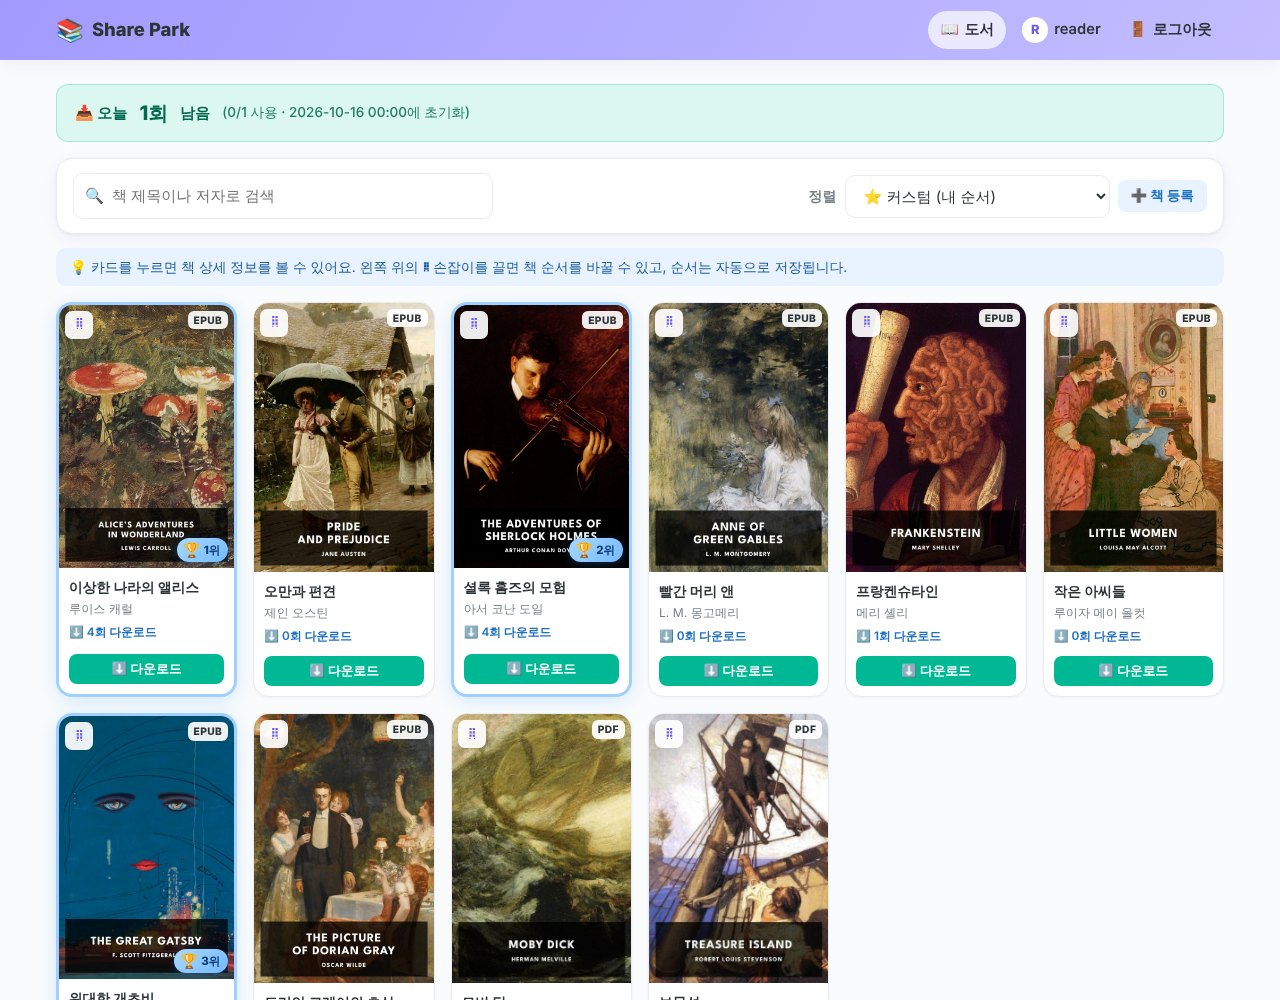
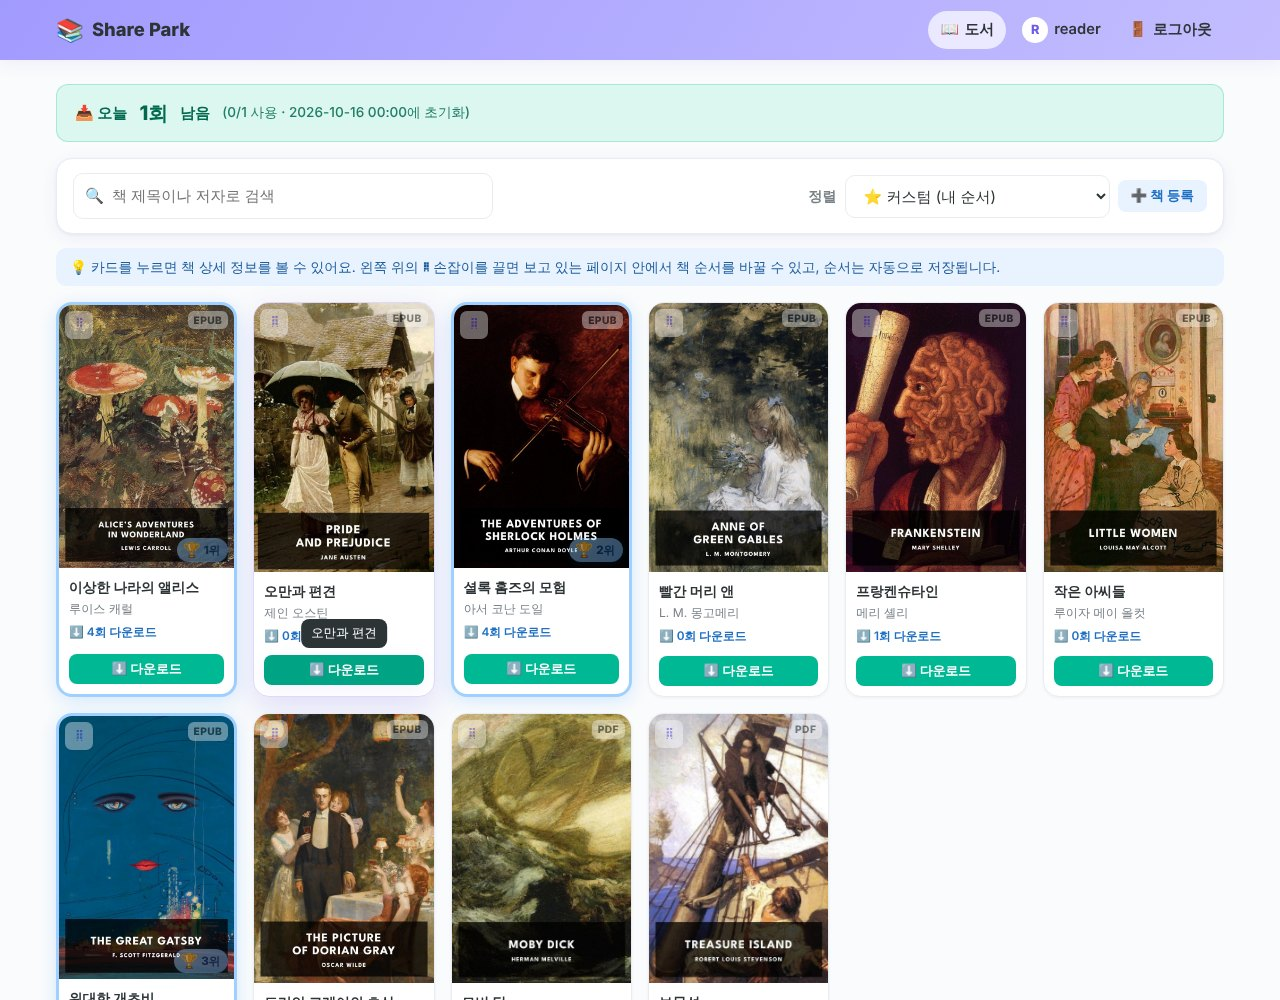
feat: v1.3.0 도서 목록 12권 페이지네이션, 표지 위 표시 반투명
- 도서 목록을 한 페이지에 12권씩 표시, 페이지 번호와 '전체 N권 중 a–b번째' 안내
- 검색·정렬 변경 시 1페이지로, 드래그 순서 변경은 현재 페이지 범위만 전체 순서에 반영
- 드래그 손잡이·형식 배지·인기 배지를 반투명(opacity .55)으로, 마우스를 올리거나 포커스하면 선명하게
- README·README.en·CHANGELOG·SECURITY·FAQ·스크린샷 갱신

Claude-Session: https://claude.ai/code/session_015QSCjmaEauR1t1XX8w4kW7

diff --git a/js/dashboard.js b/js/dashboard.js
@@ -1,6 +1,6 @@
 /**
  * Share Park - 대시보드 (도서 목록)
- * 검색, 정렬, 커스텀 순서(드래그 앤 드롭), 다운로드 제한 배너
+ * 검색, 정렬, 커스텀 순서(드래그 앤 드롭), 페이지네이션(12권), 다운로드 제한 배너
  */
 (function () {
   'use strict';
@@ -8,6 +8,7 @@
   const SP = window.SP;
   const esc = (v) => SP.escapeHtml(v);
   const SORT_KEY = 'sharepark.sort';
+  const PAGE_SIZE = 12;
 
   const grid = document.getElementById('book-grid');
   const searchInput = document.getElementById('book-search');
@@ -18,6 +19,9 @@
   const dragHint = document.getElementById('drag-hint');
   const emptyState = document.getElementById('empty-state');
   const noResults = document.getElementById('no-results');
+  const pager = document.getElementById('book-pager');
+  const pagination = document.getElementById('book-pagination');
+  const pageInfo = document.getElementById('book-page-info');
 
   const state = {
     books: [],          // 서버 순서(사용자 커스텀 순서 적용)
@@ -26,6 +30,7 @@
     sort: SP.storage.get(SORT_KEY, 'custom'),
     hasCustom: false,
     limit: null,
+    page: 1,
   };
   if (!['custom', 'popular', 'title', 'author', 'newest', 'oldest'].includes(state.sort)) state.sort = 'custom';
   sortSelect.value = state.sort;
@@ -48,11 +53,19 @@
 
   function render() {
     const canDownload = !state.limit || state.limit.can_download;
-    const list = sortedBooks();
+    const all = sortedBooks();
+    const pages = Math.max(1, Math.ceil(all.length / PAGE_SIZE));
+    state.page = Math.min(Math.max(1, state.page), pages);
+    const start = (state.page - 1) * PAGE_SIZE;
+    const list = all.slice(start, start + PAGE_SIZE);
     const draggable = canDrag();
 
+    pager.hidden = all.length === 0;
+    pageInfo.textContent = all.length ? `전체 ${all.length}권 중 ${start + 1}–${start + list.length}번째` : '';
+    pagination.innerHTML = SP.paginationHtml(state.page, pages);
+
     emptyState.hidden = state.total !== 0;
-    noResults.hidden = !(state.total > 0 && list.length === 0);
+    noResults.hidden = !(state.total > 0 && all.length === 0);
     dragHint.hidden = !(draggable && list.length > 1);
     customBadge.hidden = !(state.hasCustom && state.sort === 'custom');
     resetOrderBtn.hidden = !(state.hasCustom && state.sort === 'custom');
@@ -95,11 +108,11 @@
   }
 
   async function saveOrder(ids) {
-    // 화면 순서를 상태에 반영
+    // 현재 페이지의 새 순서를 전체 목록의 같은 위치에 반영 (다른 페이지 순서는 유지)
     const byId = new Map(state.books.map((b) => [String(b.id), b]));
-    state.books = ids.map((id) => byId.get(id)).filter(Boolean);
+    state.books.splice((state.page - 1) * PAGE_SIZE, ids.length, ...ids.map((id) => byId.get(id)).filter(Boolean));
     try {
-      const res = await SP.api('api/save-custom-order.php', { data: { order: ids.map(Number) } });
+      const res = await SP.api('api/save-custom-order.php', { data: { order: state.books.map((b) => b.id) } });
       state.hasCustom = res.has_custom_order;
       customBadge.hidden = false;
       resetOrderBtn.hidden = false;
@@ -132,14 +145,24 @@
     }
   });
 
+  pagination.addEventListener('click', (e) => {
+    const b = e.target.closest('button[data-page]');
+    if (!b || b.disabled) return;
+    state.page = Number(b.dataset.page);
+    render();
+    document.querySelector('.toolbar').scrollIntoView({ block: 'start', behavior: 'smooth' });
+  });
+
   searchInput.addEventListener('input', SP.debounce(() => {
     state.query = searchInput.value.trim();
+    state.page = 1;
     load();
   }, 250));
 
   sortSelect.addEventListener('change', () => {
     state.sort = sortSelect.value;
     SP.storage.set(SORT_KEY, state.sort);
+    state.page = 1;
     render();
     if (state.sort === 'custom' && state.query) {
       SP.toast('검색 중에는 순서를 바꿀 수 없어요. 검색어를 지우면 드래그할 수 있습니다.', 'info');

diff --git a/css/style.css b/css/style.css
@@ -269,7 +269,7 @@ input[type="file"].input { padding: 8px; }
 .book-cover { position: relative; aspect-ratio: 2 / 3; background: var(--primary-soft); overflow: hidden; }
 .book-cover img { width: 100%; height: 100%; object-fit: cover; transition: transform .3s; }
 .book-card:hover .book-cover img { transform: scale(1.03); }
-.format-badge { position: absolute; right: 6px; top: 6px; background: rgba(255, 255, 255, .92); color: var(--text); font-size: .64rem; font-weight: 800; padding: 1px 6px; border-radius: 6px; letter-spacing: .04em; }
+.format-badge { position: absolute; right: 6px; top: 6px; background: rgba(255, 255, 255, .7); color: var(--text); font-size: .64rem; font-weight: 800; padding: 1px 6px; border-radius: 6px; letter-spacing: .04em; }
 .book-info { padding: 10px 10px 10px; display: flex; flex-direction: column; gap: 2px; flex: 1; }
 .book-title { font-size: .86rem; font-weight: 700; margin: 0; line-height: 1.4; display: -webkit-box; -webkit-line-clamp: 2; -webkit-box-orient: vertical; overflow: hidden; word-break: keep-all; overflow-wrap: anywhere; }
 .book-author { font-size: .76rem; color: var(--muted); margin: 0; white-space: nowrap; overflow: hidden; text-overflow: ellipsis; }
@@ -285,8 +285,8 @@ input[type="file"].input { padding: 8px; }
   position: absolute; right: 6px; bottom: 6px;
   display: inline-flex; align-items: center; gap: 3px;
   padding: 3px 8px 3px 6px; border-radius: 999px;
-  background: linear-gradient(135deg, #a8d8ff, #74b9ff); color: #0b3d73;
-  font-size: .72rem; font-weight: 800; box-shadow: 0 2px 8px rgba(31, 111, 196, .35);
+  background: linear-gradient(135deg, rgba(168, 216, 255, .75), rgba(116, 185, 255, .75)); color: #0b3d73;
+  font-size: .72rem; font-weight: 800; box-shadow: 0 2px 8px rgba(31, 111, 196, .2);
 }
 .popular-badge span { font-size: .9rem; line-height: 1; }
 
@@ -312,11 +312,21 @@ input[type="file"].input { padding: 8px; }
 .drag-handle {
   position: absolute; left: 6px; top: 6px; z-index: 2;
   width: 28px; height: 28px; border-radius: 7px; border: none;
-  background: rgba(255, 255, 255, .92); color: var(--primary-strong);
+  background: rgba(255, 255, 255, .7); color: var(--primary-strong);
   font-size: 1.1rem; line-height: 1; cursor: grab; touch-action: none;
   box-shadow: var(--shadow-sm); display: flex; align-items: center; justify-content: center;
 }
 .drag-handle:active { cursor: grabbing; }
+
+/* 표지 위 표시(손잡이 · 형식 · 인기 배지)는 반투명으로 두어 표지 그림을 가리지 않음.
+   해당 표시에 마우스를 올리거나 포커스하면 또렷하게 보임 */
+.book-card .drag-handle, .book-cover .format-badge, .book-cover .popular-badge {
+  opacity: .55; transition: opacity .2s, background .2s;
+}
+.book-card .drag-handle:hover, .book-card .drag-handle:focus-visible,
+.book-cover .format-badge:hover, .book-cover .popular-badge:hover { opacity: 1; }
+.book-card.sortable-dragging .drag-handle { opacity: 1; }
+.book-pager { margin-top: 20px; }
 .sortable-dragging {
   box-shadow: 0 16px 40px rgba(108, 92, 231, .35) !important;
   border-color: var(--primary) !important;

diff --git a/js/admin-guide.js b/js/admin-guide.js
@@ -140,7 +140,7 @@
     ["'다시 보지 않기'는 어떻게 동작하나요?", '사용자가 동의할 때 이 옵션을 선택하면 설정한 기간(기본 7일) 동안 동의서를 생략합니다. 생략된 경우에도 서버가 기간을 다시 확인하고 동의 기록을 "다시 보지 않기" 방식으로 남깁니다.'],
     ['사용자가 비밀번호를 잊어버렸어요.', '계정 탭의 사용자 목록에서 🔑 버튼을 눌러 새 비밀번호를 지정한 뒤 사용자에게 알려주세요. 사용자는 마이페이지에서 다시 바꿀 수 있습니다.'],
     ['계정을 삭제하면 기록도 사라지나요?', '아니요. 다운로드 기록과 동의 기록은 법적 분쟁에 대비해 보관됩니다. 삭제되는 것은 계정 정보와 개인 정렬 순서, \'다시 보지 않기\' 설정입니다.'],
-    ['사용자 대시보드의 책 순서는 어떻게 정해지나요?', '도서 탭의 표 순서가 기본 순서입니다. 사용자가 대시보드에서 드래그로 자신만의 순서를 저장하면 그 사용자에게는 개인 순서가 우선 적용됩니다.'],
+    ['사용자 대시보드의 책 순서는 어떻게 정해지나요?', '도서 탭의 표 순서가 기본 순서이며, 도서 목록은 한 페이지에 12권씩 나뉘어 표시됩니다. 사용자가 대시보드에서 드래그로 자신만의 순서를 저장하면 그 사용자에게는 개인 순서가 우선 적용됩니다.'],
     ['책 파일과 표지는 어디에 저장되나요?', 'config.php 의 기본 경로 또는 설정 탭에서 지정한 경로에 저장됩니다. 현재 경로는 설정 탭의 "파일 저장 경로" 카드에서 확인할 수 있습니다. 파일은 로그인과 동의를 거쳐야만 PHP를 통해 전송됩니다.'],
     ['데이터는 어디에 저장되나요? 백업은 어떻게 하나요?', '모든 정보는 data 폴더의 JSON 파일(users, books, settings, downloads, user-custom-orders, download-agreements)에 저장됩니다. data 폴더와 책/표지 폴더를 함께 복사하면 백업이 됩니다.'],
     ['회원도 책을 등록할 수 있나요?', '네. 설정 탭의 "일반 회원의 책 등록 허용"이 켜져 있으면(기본값) 회원이 마이페이지 → 📚 내 책 탭에서 책을 등록할 수 있습니다. 회원은 자신이 올린 책만 수정·삭제할 수 있고, 관리자는 도서 탭에서 모든 책을 관리합니다. 끄면 관리자만 등록할 수 있습니다.'],

diff --git a/dashboard.php b/dashboard.php
@@ -34,9 +34,14 @@ render_header($user, 'dashboard');
     </div>
   </section>
 
-  <p id="drag-hint" class="hint" hidden>💡 카드를 누르면 책 상세 정보를 볼 수 있어요. 왼쪽 위의 <strong>⠿</strong> 손잡이를 끌면 책 순서를 바꿀 수 있고, 순서는 자동으로 저장됩니다.</p>
+  <p id="drag-hint" class="hint" hidden>💡 카드를 누르면 책 상세 정보를 볼 수 있어요. 왼쪽 위의 <strong>⠿</strong> 손잡이를 끌면 보고 있는 페이지 안에서 책 순서를 바꿀 수 있고, 순서는 자동으로 저장됩니다.</p>
 
   <section id="book-grid" class="book-grid" aria-live="polite"></section>
+
+  <nav id="book-pager" class="table-footer book-pager" aria-label="도서 목록 페이지" hidden>
+    <span id="book-page-info" class="muted small"></span>
+    <div id="book-pagination" class="pagination"></div>
+  </nav>
 
   <div id="empty-state" class="empty-state card" hidden>
     <div class="empty-icon">📭</div>

diff --git a/config.php b/config.php
@@ -8,7 +8,7 @@
  */
 
 define('APP_NAME', 'Share Park');
-define('APP_VERSION', '1.2.0');
+define('APP_VERSION', '1.3.0');
 define('APP_ROOT', __DIR__);
 define('DATA_DIR', __DIR__ . '/data');
 

diff --git a/CHANGELOG.md b/CHANGELOG.md
@@ -5,6 +5,17 @@
 
 ## [Unreleased]
 
+## [1.3.0] - 2026-10-15
+
+### 추가
+- 도서 목록 페이지네이션: 한 페이지에 12권씩 표시하고, 아래에 페이지 번호와 "전체 N권 중 a–b번째" 표시
+  - 검색어나 정렬을 바꾸면 1페이지로 이동
+  - 드래그 순서 변경은 보고 있는 페이지 안에서 동작하며, 다른 페이지의 순서는 그대로 유지
+
+### 변경
+- 책 표지 위의 표시(드래그 손잡이 · PDF/EPUB 형식 · 🏆 인기 배지)를 반투명으로 바꿔 표지 그림을 가리지 않도록 함. 마우스를 올리거나 포커스하면 또렷하게 보임
+- README 도서 목록 스크린샷 갱신
+
 ## [1.2.0] - 2026-10-15
 
 ### 추가
@@ -64,7 +75,8 @@
 - PDF/EPUB 표지 하이브리드 추출
 - JSON 파일 저장소와 자동 초기화
 
-[Unreleased]: https://github.com/resious71/Share_Park/compare/v1.2.0...HEAD
+[Unreleased]: https://github.com/resious71/Share_Park/compare/v1.3.0...HEAD
+[1.3.0]: https://github.com/resious71/Share_Park/compare/v1.2.0...v1.3.0
 [1.2.0]: https://github.com/resious71/Share_Park/compare/v1.1.0...v1.2.0
 [1.1.0]: https://github.com/resious71/Share_Park/compare/v1.0.1...v1.1.0
 [1.0.1]: https://github.com/resious71/Share_Park/compare/v1.0.0...v1.0.1

diff --git a/README.en.md b/README.en.md
@@ -22,7 +22,7 @@ No database required: it runs on **plain PHP + JSON files**.
 
 ## Features
 
-- **Book tiles**: 2/3/4/6-column responsive grid, search by title or author, sort by popularity, title, author, date added or custom order
+- **Book tiles**: 2/3/4/6-column responsive grid with 12 books per page, translucent overlays that keep covers visible, search by title or author, sort by popularity, title, author, date added or custom order
 - **Drag & drop ordering**: each user can save a personal order (mouse, touch and keyboard)
 - **Book details**: click a card to see the cover, description, download count and uploader
 - **Popular top 3**: the three most downloaded books get a light blue border and a 🏆 rank badge; every card shows its download count

diff --git a/SECURITY.md b/SECURITY.md
@@ -4,8 +4,8 @@
 
 | 버전 | 지원 |
 |---|:---:|
-| 1.2.x | ✅ |
-| 1.1.x | ✅ (보안 수정만) |
+| 1.3.x | ✅ |
+| 1.2.x | ✅ (보안 수정만) |
 | 그 이전 | ❌ |
 
 ## 취약점 제보
